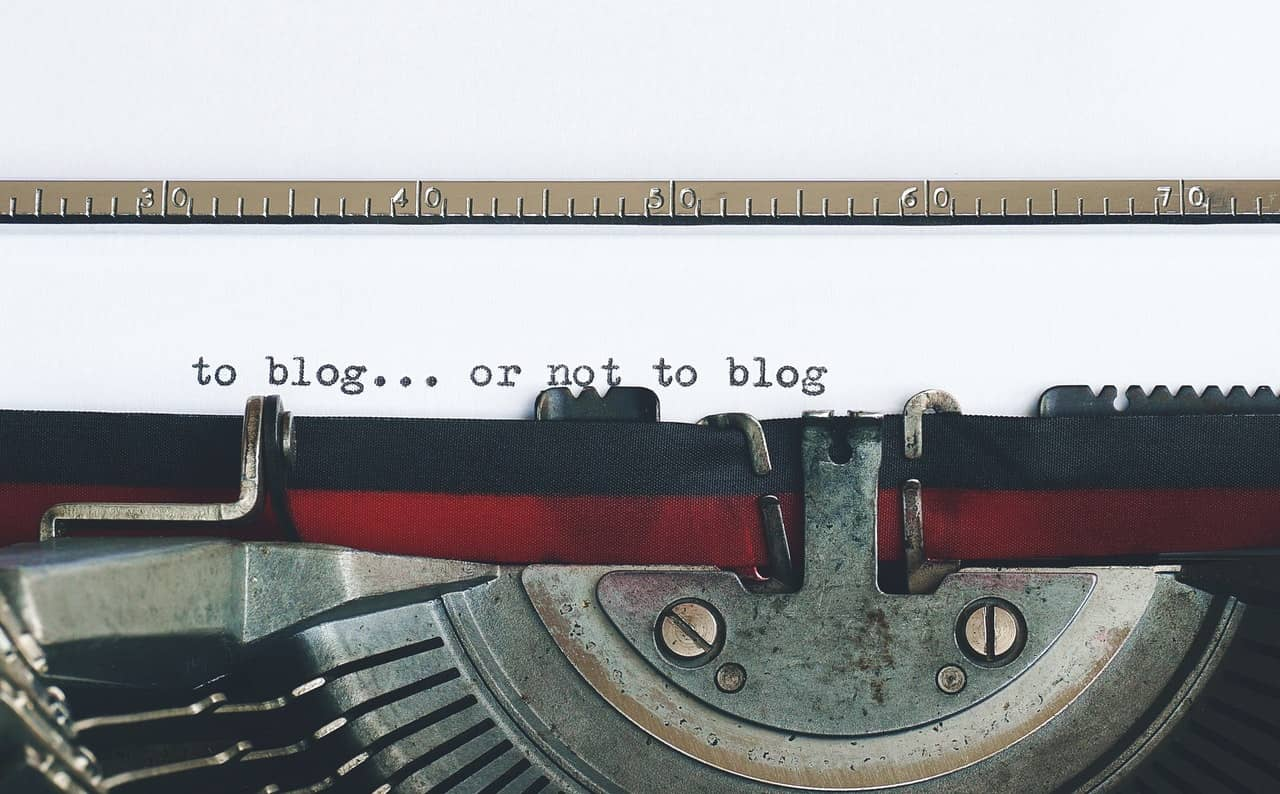
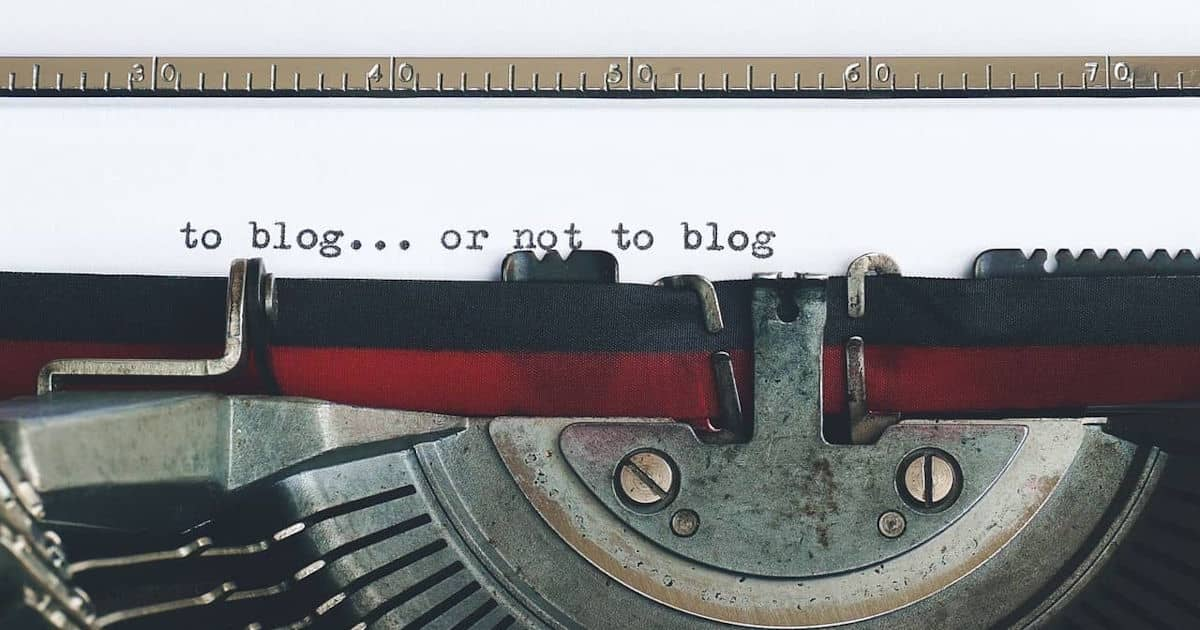
feat: enriquece el etiquetado Open Graph y Twitter Cards
Añade og:type, og:title, og:url, og:site_name, og:locale, og:image
(width/height/alt) y twitter:card para todas las páginas (con imagen
específica en la home); declara el namespace article en <html> y
optimiza la nueva imagen og-image.jpg.

diff --git a/_includes/head.html b/_includes/head.html
@@ -27,15 +27,12 @@
     {% endif %}
 
     <meta name="description" content="{% if page.description %}{{ page.description }}{% else %}{{ page.title }}. {{ page.subtitle }}.{% endif %}">
-    <meta property="og:description" content="{% if page.description %}{{ page.description }}{% else %}{{ page.title }}. {{ page.subtitle }}.{% endif %}">
-    {% if page.date %}
-    <meta property="article:published_time" content="{{ page.date | date: '%Y-%m-%dT%H:%M:%SZ' }}" />
-    {% endif %}
     <meta name="author" content="{{ page.author | default: site.author }}">
 
     <title>{% if page.title %}{{ page.title }}{% else %}{{ site.title }}{% endif %}</title>
 
-    <link rel="canonical" href="{% if page.canonical %}{{ page.canonical }}{% else %}{{ page.url | replace:'index.html','' | prepend: site.baseurl | prepend: site.url }}{% endif %}">
+    {% capture canonical_url %}{% if page.canonical %}{{ page.canonical }}{% else %}{{ page.url | replace:'index.html','' | prepend: site.baseurl | prepend: site.url }}{% endif %}{% endcapture %}
+    <link rel="canonical" href="{{ canonical_url }}">
 
     <!-- Favicon -->
 
@@ -46,9 +43,22 @@
     <meta name="apple-mobile-web-app-title" content="Aunitz" />
     <link rel="manifest" href="/site.webmanifest" />
 
+    <!-- Open Graph Protocol (OGP) -->
+    <meta property="og:type" content="{% if page.layout == 'post' %}article{% else %}website{% endif %}">
+    <meta property="og:title" content="{% if page.home-page %}{{ site.title_short }}{% else %}{{ page.title }}{% endif %}">
+    <meta property="og:description" content="{% if page.description %}{{ page.description }}{% else %}{{ page.title }}. {{ page.subtitle }}.{% endif %}">
+    <meta property="og:url" content="{{ canonical_url }}">
+    <meta property="og:site_name" content="{{ site.subtitle }}">
+    <meta property="og:locale" content="es_ES">
+    {% if page.date %}
+    <meta property="article:published_time" content="{{ page.date | date: '%Y-%m-%dT%H:%M:%SZ' }}" />
+    {% endif %}
+    <meta name="twitter:card" content="summary_large_image" />
     {%if page.home-page %}
-    <!-- Open Graph Protocol (OGP) to LinkedIn -->
     <meta property="og:image" content="{{ site.url }}/{{ site.og_image_index }}">
+    <meta property="og:image:width" content="1200">
+    <meta property="og:image:height" content="630">
+    <meta property="og:image:alt" content="Máquina de escribir con una hoja en la que pone «to blog... or not to blog»">
     {% endif %}
 
     {% comment %}

diff --git a/_layouts/default.html b/_layouts/default.html
@@ -1,5 +1,5 @@
 <!DOCTYPE html>
-<html lang="es">
+<html lang="es" prefix="og: https://ogp.me/ns# article: https://ogp.me/ns/article#">
 
 {% include head.html %}
 

diff --git a/_layouts/empty.html b/_layouts/empty.html
@@ -1,5 +1,5 @@
 <!DOCTYPE html>
-<html lang="es">
+<html lang="es" prefix="og: https://ogp.me/ns# article: https://ogp.me/ns/article#">
 
 {% include head.html %}
 
